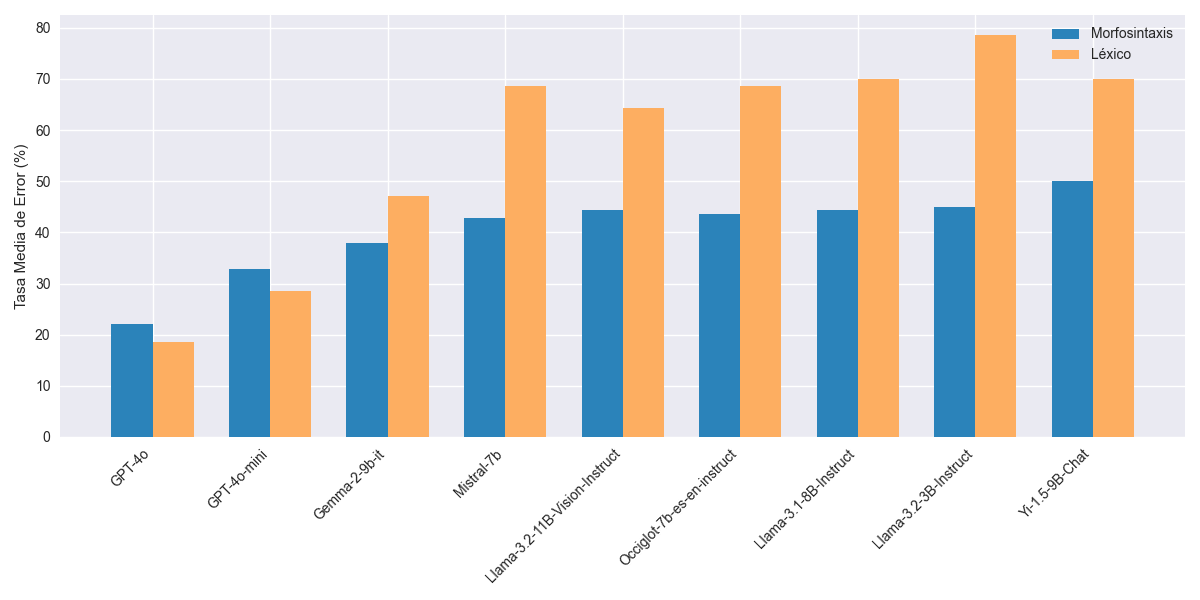
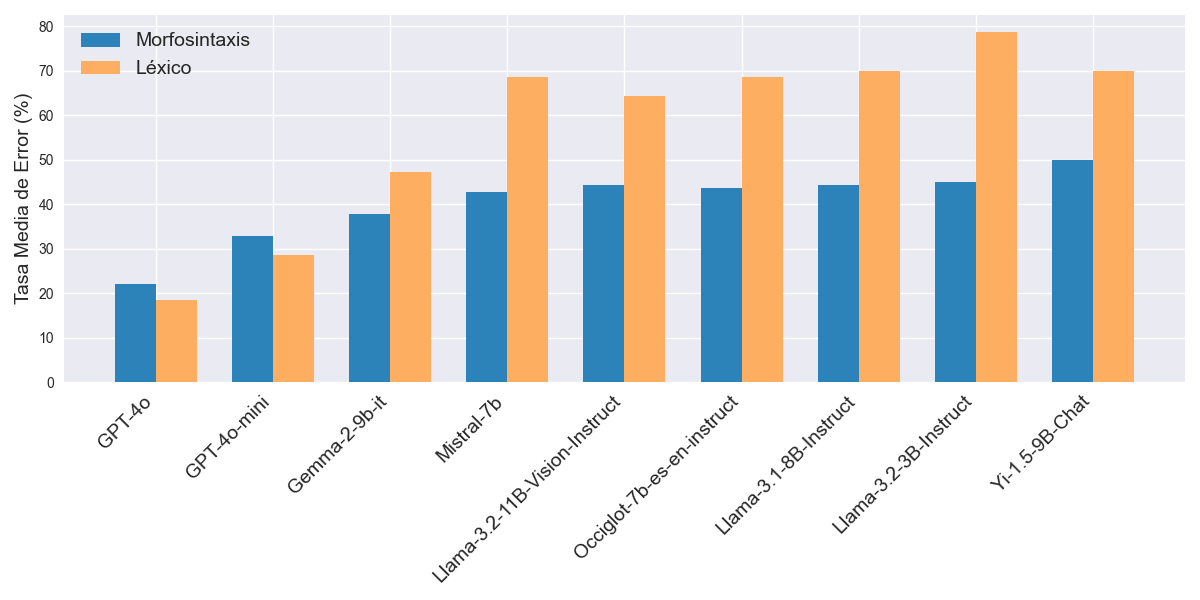
agrandar font size y formatear labels

diff --git a/analyze_varieties.py b/analyze_varieties.py
@@ -77,6 +77,16 @@ def create_heatmap():
         col.split("puntuacion_")[1].split("_sobre_30")[0] for col in score_data.columns
     ]
 
+    # Wrap long column names and update mexicano
+    score_data.columns = [
+        (
+            "caribeño\ncontinental"
+            if col == "caribeno_continental"
+            else "mexicano y\ncentroamericano" if col == "mexicano" else col
+        )
+        for col in score_data.columns
+    ]
+
     plt.figure(figsize=(12, 8))
     sns.heatmap(
         score_data,
@@ -86,10 +96,13 @@ def create_heatmap():
         center=15,
         vmin=0,
         vmax=30,
+        annot_kws={"size": 14},  # Increase annotation font size
     )
-    plt.title("Mapa de Calor de Puntuaciones por Variedad")
+    plt.title("Mapa de Calor de Puntuaciones por Variedad", fontsize=14, pad=10)
     plt.xlabel("")  # Remove x-label
     plt.ylabel("")  # Remove y-label
+    plt.xticks(fontsize=14)
+    plt.yticks(fontsize=14)
     plt.tight_layout()
     plt.savefig("plots/mapa_calor_puntuaciones.png")
     plt.close()
@@ -128,9 +141,9 @@ def analyze_error_patterns():
         label="Léxico",
         color="#fdae61",  # Orange
     )
-    plt.xticks(x, mean_errors["modelos"], rotation=45, ha="right")
-    plt.ylabel("Tasa Media de Error (%)")
-    plt.legend()
+    plt.xticks(x, mean_errors["modelos"], rotation=45, ha="right", fontsize=14)
+    plt.ylabel("Tasa Media de Error (%)", fontsize=14)
+    plt.legend(fontsize=14)
     plt.tight_layout()
     plt.savefig("plots/barplot_tasas_error_por_modelo.png")
     plt.close()
@@ -281,14 +294,28 @@ def analyze_cereal_correlation():
         correlation_data[strongest_metric],
         correlation_data["Mean Score"],
         color="#2b83ba",  # Blue
+        s=100,  # Increase marker size
     )
     for variety in varieties:
+        # Update the label for mexicano in the scatter plot
+        label = (
+            "mexicano y centroamericano"
+            if variety == "mexicano"
+            else (
+                "caribeño continental" if variety == "caribeno_continental" else variety
+            )
+        )
         plt.annotate(
-            variety,
+            label,
             (
                 correlation_data.loc[variety, strongest_metric],
                 correlation_data.loc[variety, "Mean Score"],
             ),
+            fontsize=14,
+            xytext=(5, 5),  # Add offset (pixels)
+            textcoords="offset points",  # Use offset coordinates
+            ha="left",  # Horizontal alignment
+            va="bottom",  # Vertical alignment
         )
 
     # Add correlation coefficient
@@ -299,10 +326,13 @@ def analyze_cereal_correlation():
         f"Correlación: {corr_value:.2f}",
         transform=plt.gca().transAxes,
         bbox=dict(facecolor="white", alpha=0.8),
+        fontsize=14,  # Increase correlation text font size
     )
 
-    plt.xlabel(metric_name)
-    plt.ylabel("Puntuación Media")
+    plt.xlabel(metric_name, fontsize=14)
+    plt.ylabel("Puntuación Media", fontsize=14)
+    plt.xticks(fontsize=14)
+    plt.yticks(fontsize=14)
     plt.tight_layout()
     plt.savefig("plots/scatterplot_puntuacion_media_vs_datos_cereal.png")
     plt.close()
